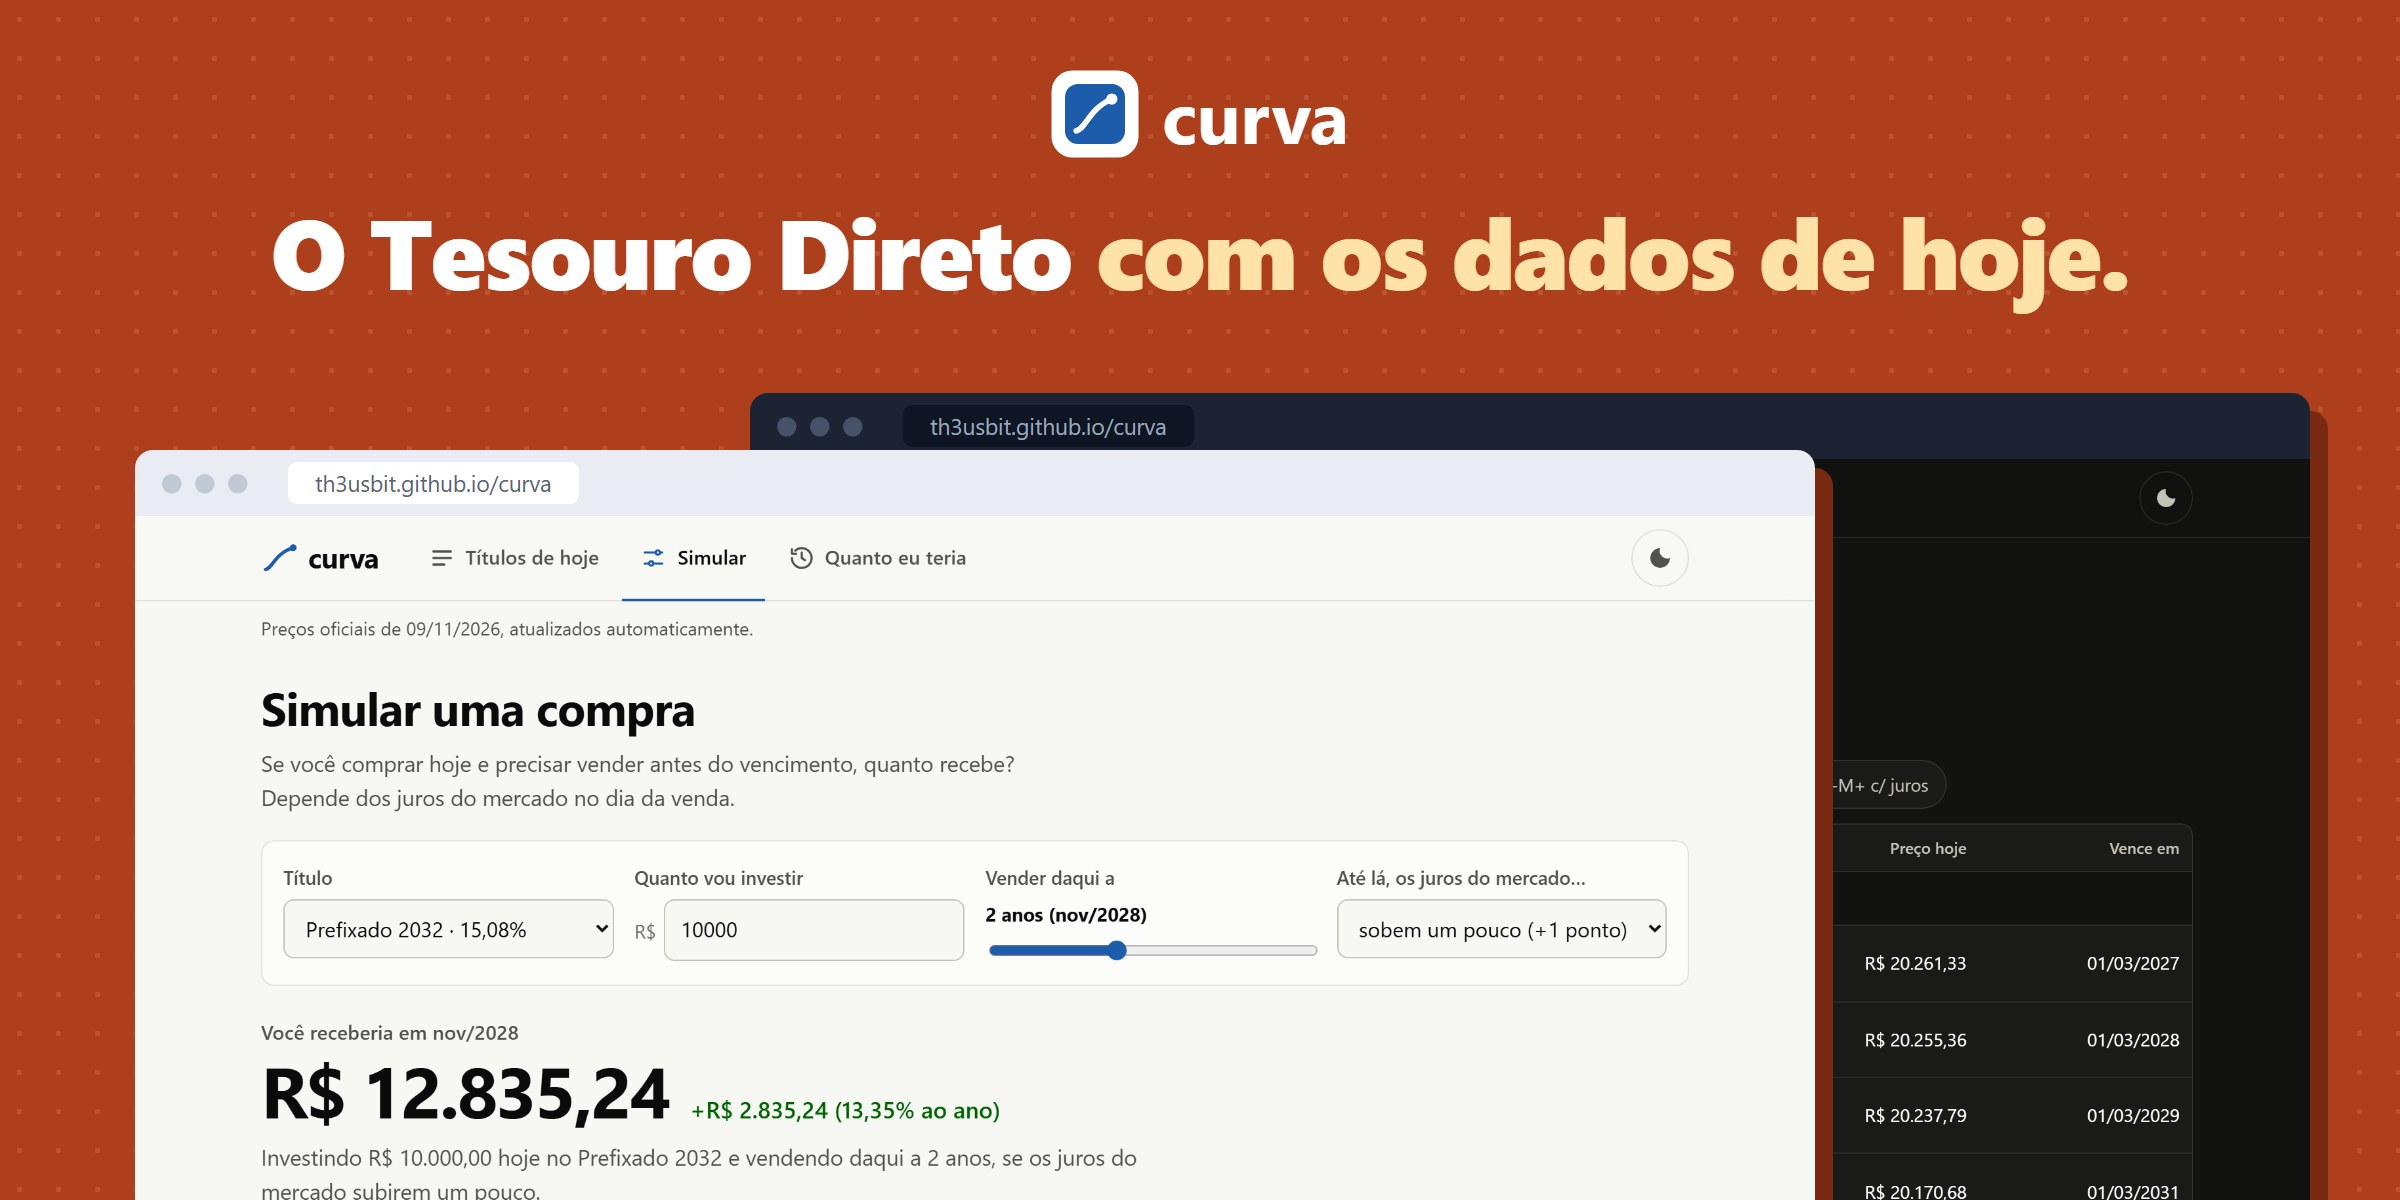
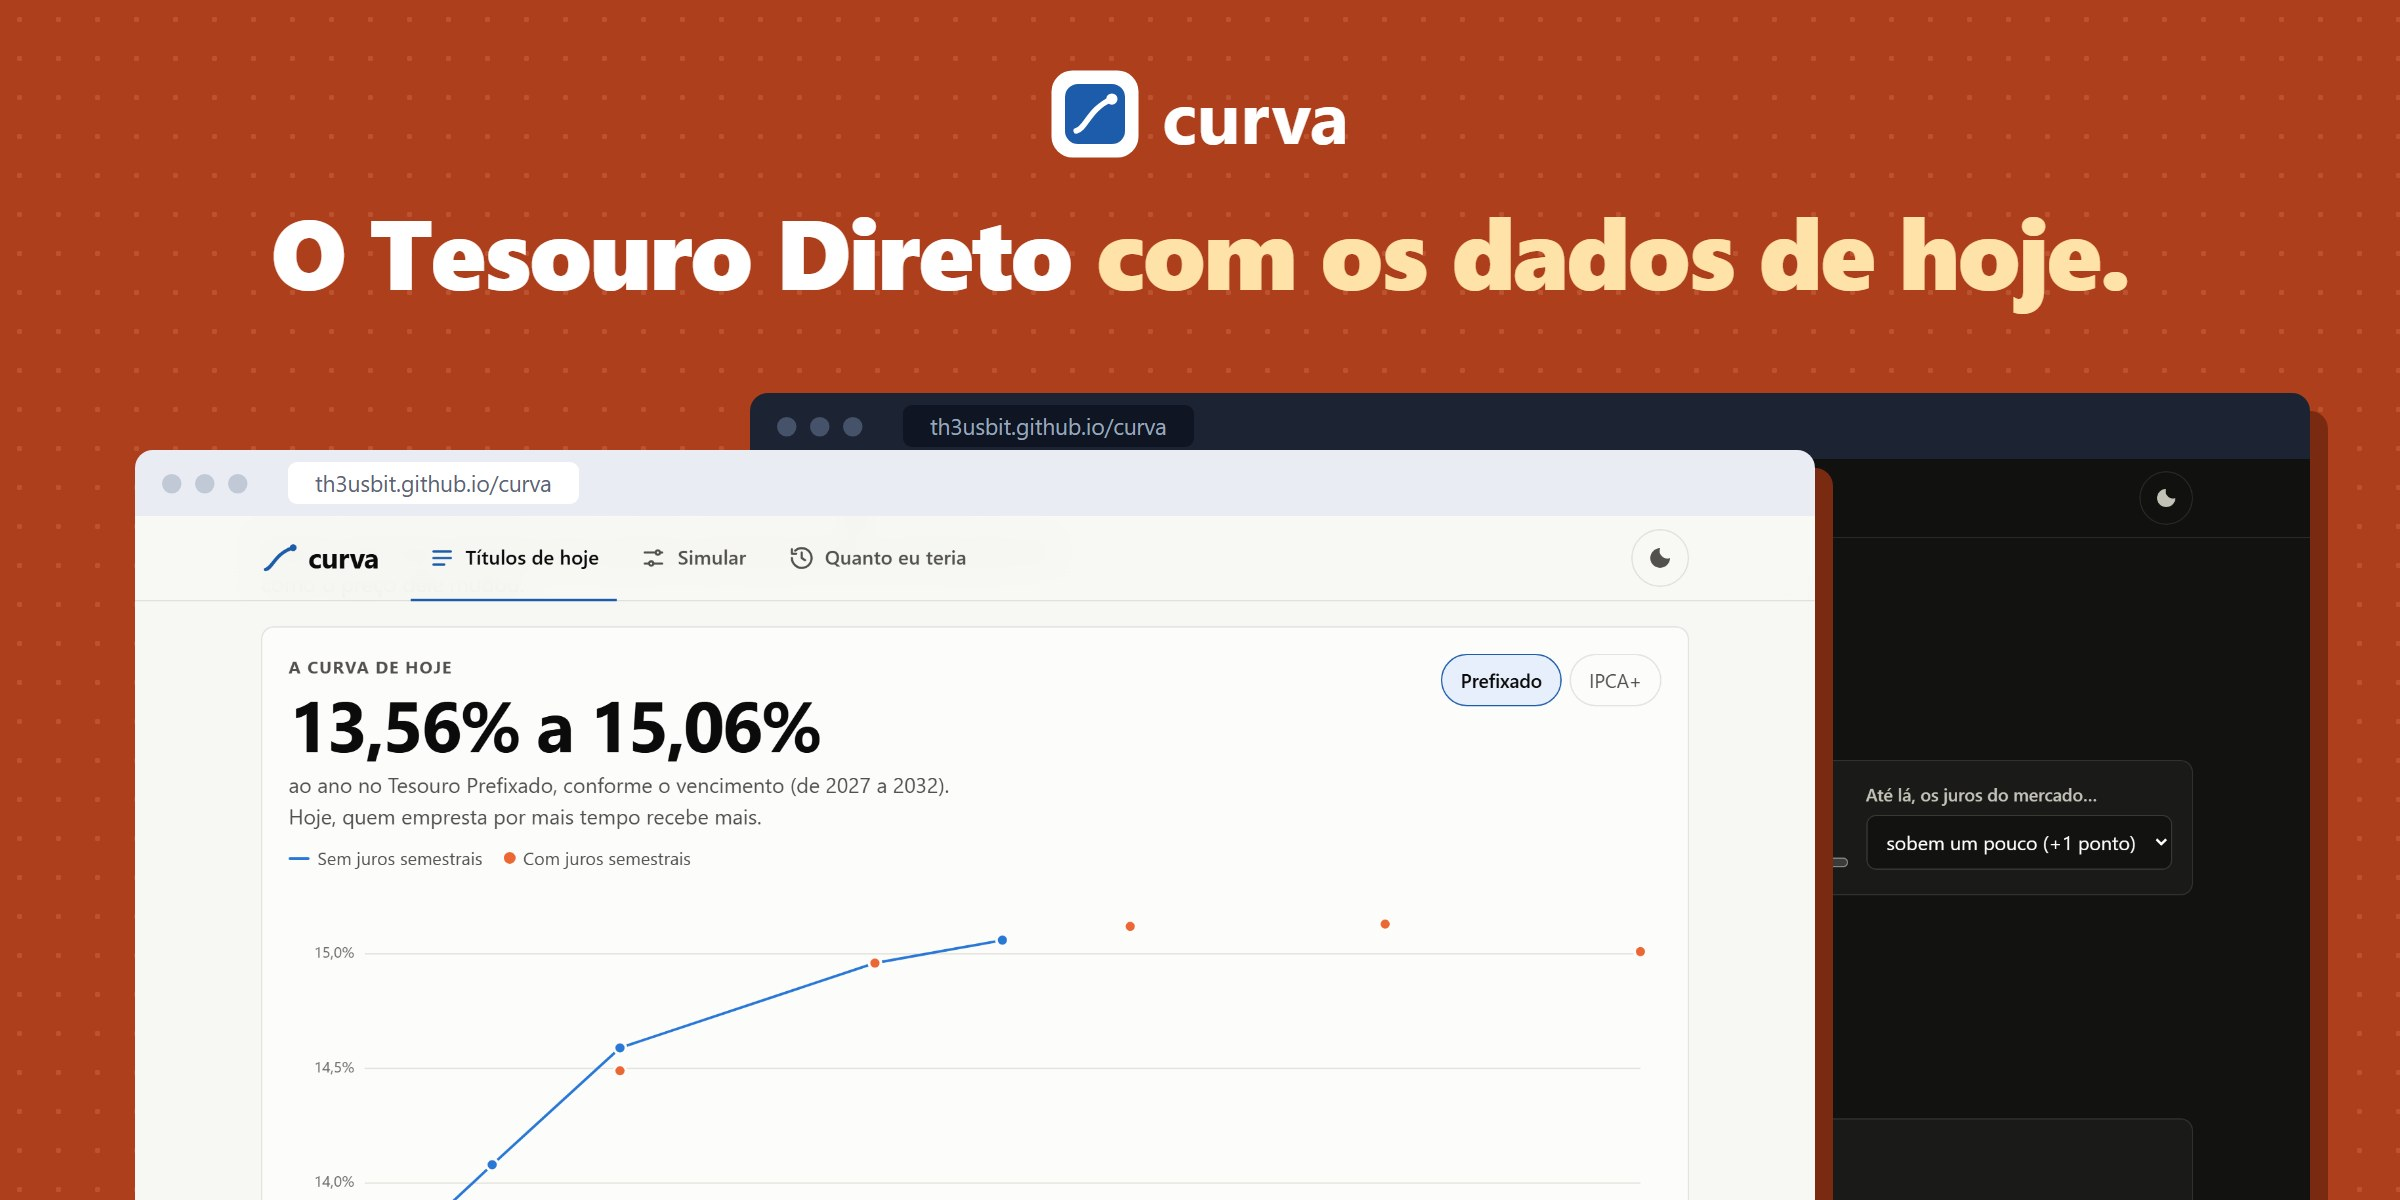
docs: capa mostra a curva de juros do dia na pagina inicial

diff --git a/README.md b/README.md
@@ -1,6 +1,6 @@
 <div align="center">
 
-<a href="https://th3usbit.github.io/curva/"><img src="docs/capa.jpg" width="100%" alt="curva: o Tesouro Direto com os dados de hoje. Telas reais do site com o simulador de venda e a lista de títulos."></a>
+<a href="https://th3usbit.github.io/curva/"><img src="docs/capa.jpg" width="100%" alt="curva: o Tesouro Direto com os dados de hoje. Telas reais do site com a curva de juros do dia e o simulador de venda."></a>
 
 Curva de juros, preços e simuladores de todos os títulos do Tesouro Direto, atualizados sozinhos todo dia útil a partir dos dados abertos do Tesouro Nacional. Sem servidor, chave de API ou banco de dados.
 
